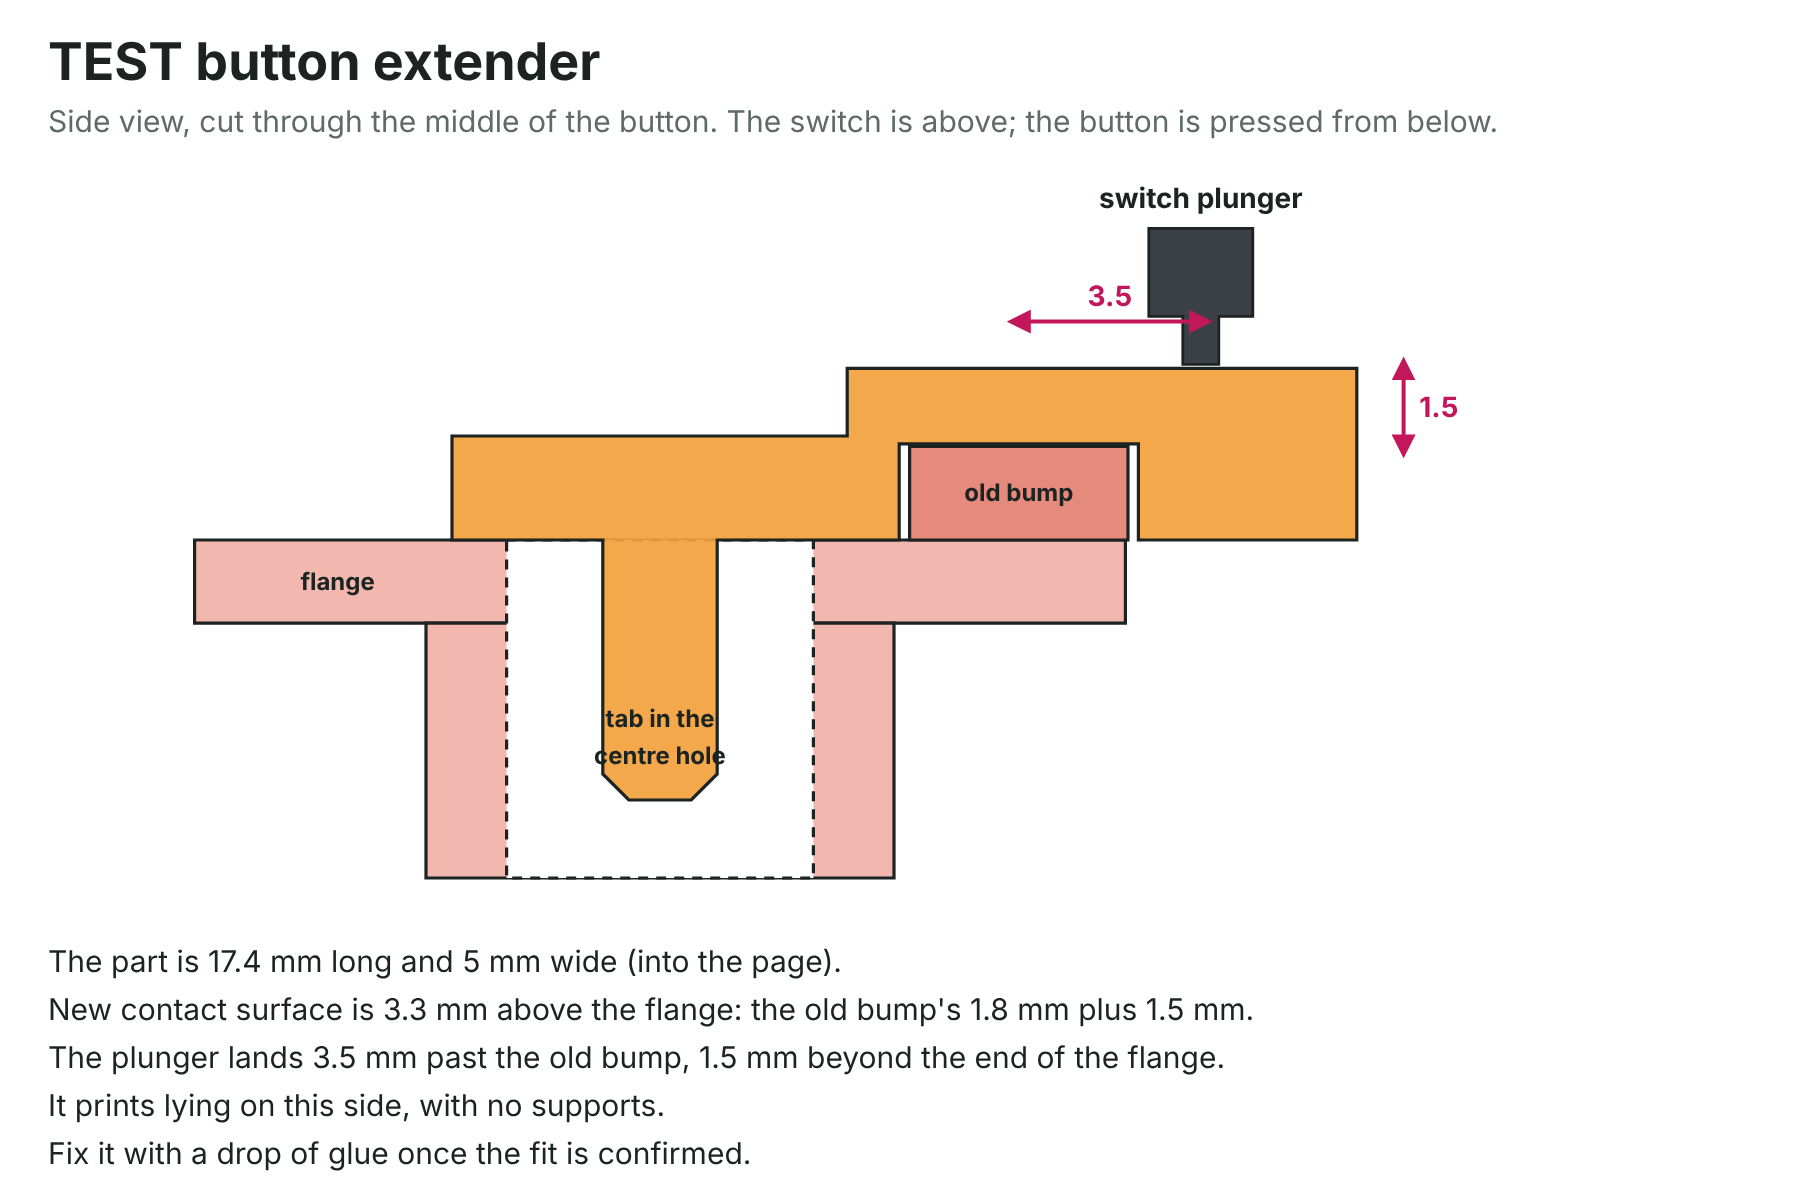
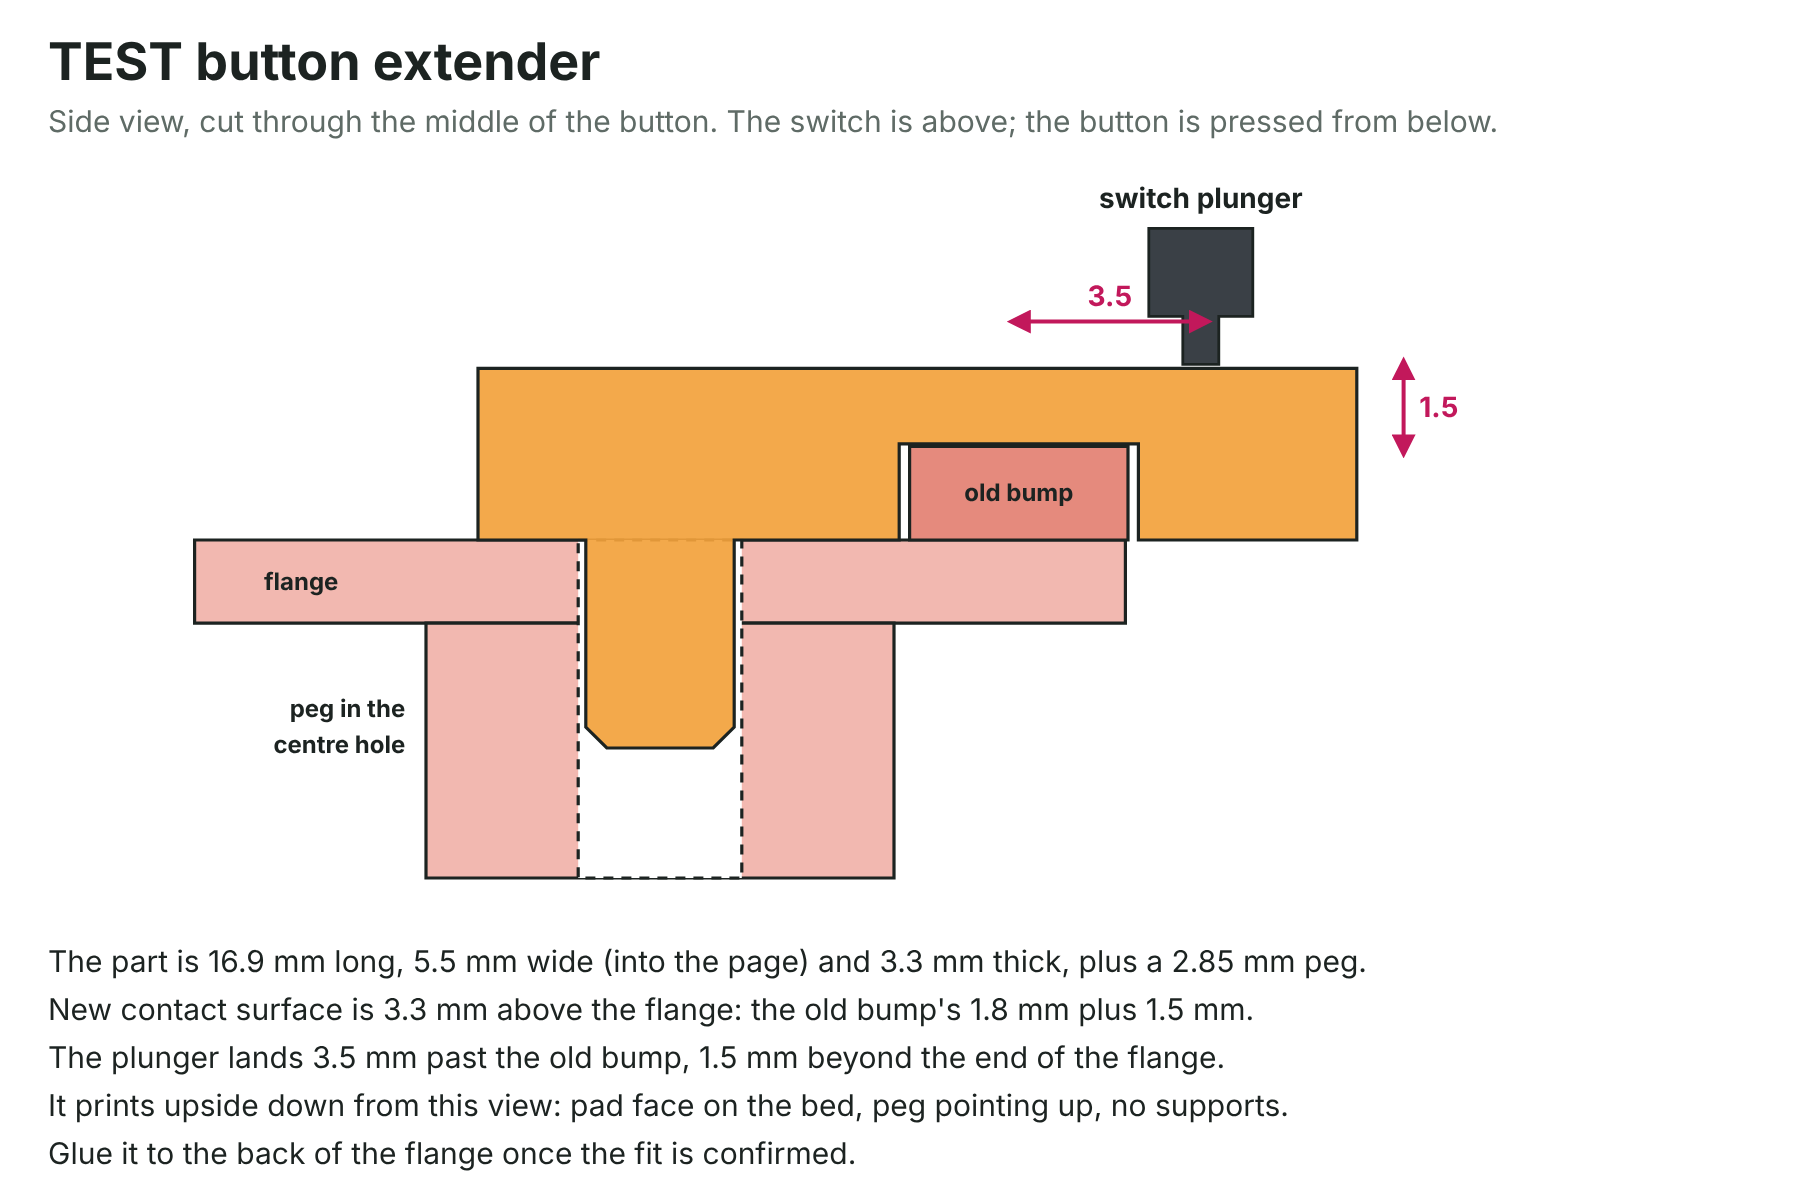
Button extender: round peg for the 3.15 mm centre hole, prints pad-down
The centre hole is 3.15 mm, not 5.9. The part is now a solid built with
manifold3d: a round peg for the hole, a slot over the old bump and a flat
pad, printed pad-face down with no overhangs.

Claude-Session: https://claude.ai/code/session_014zeCf1JZPkteomympPnhgc

diff --git a/cad/button/test_button_extender.py b/cad/button/test_button_extender.py
@@ -1,16 +1,16 @@
-"""TEST-button extender: a clip that moves the button's contact point.
+"""TEST-button extender: a cap that moves the button's contact point.
 
+    pip install manifold3d
     python3 cad/button/test_button_extender.py
         -> cad/button/out/test_button_extender.stl  (and a dimensioned .svg)
 
 The housing's TEST button has a small bump on the back of its flange that
 presses the switch. On the v2 board the switch plunger sits 3.5 mm further out
-along the flange than that bump, and 1.5 mm further away. This part sits on
-the back of the flange, located by a tab in the button's centre hole and a
-slot over the old bump, and gives the plunger a flat pad in the right place.
+along the flange than that bump, and 1.5 mm further away. This part is glued
+onto the back of the flange, located by a peg in the button's centre hole and
+a slot over the old bump, and gives the plunger a flat pad in the right place.
 
-It is one flat profile extruded sideways, so it prints lying on its side with
-no supports. Pure Python: no CAD library needed.
+It prints pad-face down with the peg pointing up: no overhangs, no supports.
 
 All dimensions in mm. x runs along the flange from the centre hole toward the
 bump; z is the push direction, 0 at the flange's back face, positive toward
@@ -19,12 +19,14 @@ the switch.
 from pathlib import Path
 import struct
 
+import manifold3d as m3
+
 HERE = Path(__file__).parent
 
 # --- Measured on the button ------------------------------------------------------
 BUMP_DIA = 4.2            # existing bump on the back of the flange
 BUMP_H = 1.8
-HOLE_DIA = 5.9            # hole in the centre of the button's back
+HOLE_DIA = 3.15           # hole in the centre of the button's back (17.2 deep)
 BUMP_X = 6.9              # centre hole to bump, centre to centre
 FLANGE_W = 5.5
 FLANGE_LEN = 17.9
@@ -34,13 +36,12 @@ OFFSET_OUT = 3.5          # plunger lands this far past the old bump, along the 
 EXTRA_REACH = 1.5         # and needs the surface this much closer than the old bump's top
 
 # --- Part ---------------------------------------------------------------------------
-WIDTH = 5.0               # across the flange (the extrusion); a little under FLANGE_W
+WIDTH = FLANGE_W          # flush with the flange's sides
 CLEAR = 0.2               # around the old bump
-BASE_T = 2.0              # thickness where it rests on the flange
-TAB_W = 2.2               # tab in the centre hole: TAB_W x WIDTH must fit inside HOLE_DIA
-TAB_LEN = 5.0
+PEG_DIA = HOLE_DIA - 0.3  # printed pegs come out slightly fat
+PEG_LEN = 4.0
 PAD_PAST = 3.0            # pad extends this far past the plunger's landing point
-BASE_BACK = 4.0           # how far the base runs back past the hole centre
+BASE_BACK = 3.5           # how far the body runs back past the hole centre
 
 PAD_Z = BUMP_H + EXTRA_REACH                 # new contact surface
 SLOT_X0 = BUMP_X - BUMP_DIA / 2 - CLEAR
@@ -48,86 +49,40 @@ SLOT_X1 = max(BUMP_X + BUMP_DIA / 2, FLANGE_LEN / 2) + CLEAR
 SLOT_Z = BUMP_H + 0.05                       # the bridge rests on top of the old bump
 TARGET_X = BUMP_X + OFFSET_OUT
 END_X = TARGET_X + PAD_PAST
-assert (TAB_W ** 2 + WIDTH ** 2) ** 0.5 < HOLE_DIA - 0.3, "tab will not fit the centre hole"
 assert PAD_Z - SLOT_Z >= 1.2, "bridge over the old bump is too thin"
-
-# Profile in (x, z), counter-clockwise.
-PROFILE = [
-    (-BASE_BACK, 0.0),
-    (-TAB_W / 2, 0.0), (-TAB_W / 2, -TAB_LEN + 0.5), (-TAB_W / 2 + 0.5, -TAB_LEN),
-    (TAB_W / 2 - 0.5, -TAB_LEN), (TAB_W / 2, -TAB_LEN + 0.5), (TAB_W / 2, 0.0),
-    (SLOT_X0, 0.0), (SLOT_X0, SLOT_Z), (SLOT_X1, SLOT_Z), (SLOT_X1, 0.0),
-    (END_X, 0.0), (END_X, PAD_Z),
-    (SLOT_X0 - 1.0, PAD_Z), (SLOT_X0 - 1.0, BASE_T), (-BASE_BACK, BASE_T),
-]
-
-
-def triangulate(poly):
-    """Ear clipping for a simple counter-clockwise polygon."""
-    def cross(o, a, b):
-        return (a[0] - o[0]) * (b[1] - o[1]) - (a[1] - o[1]) * (b[0] - o[0])
-
-    def inside(p, a, b, c):
-        return cross(a, b, p) >= -1e-9 and cross(b, c, p) >= -1e-9 and cross(c, a, p) >= -1e-9
-
-    idx = list(range(len(poly)))
-    tris = []
-    while len(idx) > 3:
-        for k in range(len(idx)):
-            i, j, l = idx[k - 1], idx[k], idx[(k + 1) % len(idx)]
-            a, b, c = poly[i], poly[j], poly[l]
-            if cross(a, b, c) <= 1e-9:
-                continue                                   # reflex or flat corner
-            if any(inside(poly[m], a, b, c) for m in idx if m not in (i, j, l)):
-                continue
-            tris.append((i, j, l))
-            idx.pop(k)
-            break
-        else:
-            raise ValueError("polygon could not be triangulated")
-    tris.append(tuple(idx))
-    return tris
 
 
 def build():
-    """Triangles of the extruded profile. Output axes: X = x, Y = z, Z = across
-    the flange, so the part lies on its side on the print bed."""
-    n = len(PROFILE)
-    lo = [(x, z, 0.0) for x, z in PROFILE]
-    hi = [(x, z, WIDTH) for x, z in PROFILE]
-    out = []
-    for i, j, l in triangulate(PROFILE):
-        out.append((lo[i], lo[l], lo[j]))                  # bottom face looks down
-        out.append((hi[i], hi[j], hi[l]))                  # top face looks up
-    for i in range(n):
-        j = (i + 1) % n
-        out.append((lo[i], lo[j], hi[j]))
-        out.append((lo[i], hi[j], hi[i]))
-    return out
+    """The part in button coordinates (z = 0 at the flange's back face)."""
+    r = WIDTH / 2
+    ends = [m3.CrossSection.circle(r, 48).translate((x, 0.0)) for x in (-BASE_BACK + r, END_X - r)]
+    body = m3.CrossSection.batch_hull(ends).extrude(PAD_Z)
+    slot = m3.Manifold.cube([SLOT_X1 - SLOT_X0, WIDTH + 2.0, SLOT_Z + 1.0]).translate(
+        (SLOT_X0, -WIDTH / 2 - 1.0, -1.0))
+    tip = 0.4
+    peg = (m3.Manifold.cylinder(PEG_LEN - tip + 0.01, PEG_DIA / 2, PEG_DIA / 2, 48).translate((0, 0, -PEG_LEN + tip))
+           + m3.Manifold.cylinder(tip, PEG_DIA / 2 - tip, PEG_DIA / 2, 48).translate((0, 0, -PEG_LEN)))
+    return body - slot + peg
 
 
-def check(tris):
-    """Every edge must be shared by exactly two triangles, in opposite directions."""
-    edges = {}
-    for t in tris:
-        for a, b in ((t[0], t[1]), (t[1], t[2]), (t[2], t[0])):
-            edges[(a, b)] = edges.get((a, b), 0) + 1
-    bad = [e for e in edges if edges[e] != 1 or edges.get((e[1], e[0]), 0) != 1]
-    vol = sum((a[0] * (b[1] * c[2] - b[2] * c[1]) - a[1] * (b[0] * c[2] - b[2] * c[0])
-               + a[2] * (b[0] * c[1] - b[1] * c[0])) / 6 for a, b, c in tris)
-    return len(bad), vol
+def for_printing(part):
+    """Flip it pad-face down: the pad sits on the bed and the peg points up."""
+    return part.mirror((0.0, 0.0, 1.0)).translate((0.0, 0.0, PAD_Z))
 
 
-def write_stl(tris, path):
+def write_stl(part, path):
+    mesh = part.to_mesh()
+    verts, tris = mesh.vert_properties, mesh.tri_verts
     with open(path, "wb") as f:
         f.write(b"Redlight TEST button extender".ljust(80, b" "))
         f.write(struct.pack("<I", len(tris)))
-        for a, b, c in tris:
-            u = [b[k] - a[k] for k in range(3)]
-            v = [c[k] - a[k] for k in range(3)]
-            nrm = [u[1] * v[2] - u[2] * v[1], u[2] * v[0] - u[0] * v[2], u[0] * v[1] - u[1] * v[0]]
-            m = sum(x * x for x in nrm) ** 0.5 or 1.0
-            f.write(struct.pack("<12fH", *[x / m for x in nrm], *a, *b, *c, 0))
+        for t in tris:
+            a, b, c = (verts[i][:3] for i in t)
+            u, v = b - a, c - a
+            n = (u[1] * v[2] - u[2] * v[1], u[2] * v[0] - u[0] * v[2], u[0] * v[1] - u[1] * v[0])
+            k = sum(x * x for x in n) ** 0.5 or 1.0
+            f.write(struct.pack("<12fH", *[x / k for x in n], *a, *b, *c, 0))
+    return len(tris)
 
 
 def write_svg(path):
@@ -151,7 +106,10 @@ def write_svg(path):
         return (f'<line x1="{a:.1f}" y1="{b:.1f}" x2="{c:.1f}" y2="{d:.1f}" stroke="{color}" '
                 f'stroke-width="2" marker-start="url(#h)" marker-end="url(#h)"/>')
 
-    half = FLANGE_LEN / 2
+    half, pr = FLANGE_LEN / 2, PEG_DIA / 2
+    profile = [(-BASE_BACK, 0), (-pr, 0), (-pr, -PEG_LEN + 0.4), (-pr + 0.4, -PEG_LEN), (pr - 0.4, -PEG_LEN),
+               (pr, -PEG_LEN + 0.4), (pr, 0), (SLOT_X0, 0), (SLOT_X0, SLOT_Z), (SLOT_X1, SLOT_Z), (SLOT_X1, 0),
+               (END_X, 0), (END_X, PAD_Z), (-BASE_BACK, PAD_Z)]
     o = ['<svg xmlns="http://www.w3.org/2000/svg" viewBox="0 0 900 600" width="900" height="600" '
          'font-family="Inter, \'DejaVu Sans\', Arial, sans-serif">',
          '<defs><marker id="h" viewBox="0 0 10 10" refX="5" refY="5" markerWidth="6" markerHeight="6" '
@@ -160,15 +118,14 @@ def write_svg(path):
          '<text x="24" y="40" font-size="26" font-weight="700" fill="#1c2321">TEST button extender</text>',
          '<text x="24" y="66" font-size="15" fill="#5f6b66">Side view, cut through the middle of the button. '
          'The switch is above; the button is pressed from below.</text>']
-    # Button: flange, old bump, hollow shaft (schematic below the flange).
+    # Button: flange, old bump, shaft with its centre hole (schematic below the flange).
     o.append(poly([(-half, 0), (half, 0), (half, -1.6), (-half, -1.6)], "#f2b8b0"))
     o.append(poly([(-4.5, -1.6), (4.5, -1.6), (4.5, -6.5), (-4.5, -6.5)], "#f2b8b0"))
     o.append(poly([(-HOLE_DIA / 2, 0), (HOLE_DIA / 2, 0), (HOLE_DIA / 2, -6.5), (-HOLE_DIA / 2, -6.5)],
                   "#ffffff", "#1c2321", 'stroke-dasharray="5 4"'))
     o.append(poly([(BUMP_X - BUMP_DIA / 2, 0), (BUMP_X + BUMP_DIA / 2, 0),
                    (BUMP_X + BUMP_DIA / 2, BUMP_H), (BUMP_X - BUMP_DIA / 2, BUMP_H)], "#e58a7d"))
-    o.append(poly(PROFILE, "#f2a23c", "#1c2321", 'fill-opacity="0.92"'))
-    # Plunger landing point and dimensions.
+    o.append(poly(profile, "#f2a23c", "#1c2321", 'fill-opacity="0.92"'))
     px, py = P(TARGET_X, PAD_Z)
     o.append(f'<path d="M{px - 26:.1f},{py - 70:.1f} h52 v44 h-17 v24 h-18 v-24 h-17 z" fill="#3a4046" '
              f'stroke="#1c2321" stroke-width="1.4"/>')
@@ -178,14 +135,15 @@ def write_svg(path):
     o.append(arrow(END_X + 0.9, BUMP_H, END_X + 0.9, PAD_Z))
     o.append(text(END_X + 1.2, (BUMP_H + PAD_Z) / 2, f"{EXTRA_REACH:g}", 14, "#c2185b", 700, "start", 5))
     o.append(text(BUMP_X, BUMP_H / 2, "old bump", 12, "#1c2321", 700, dy=4))
-    o.append(text(0, -3.6, "tab in the", 12, "#1c2321", 700))
-    o.append(text(0, -4.3, "centre hole", 12, "#1c2321", 700))
-    o.append(text(-6.2, -0.8, "flange", 12, "#1c2321", 700, dy=4))
-    notes = [f"The part is {END_X + BASE_BACK:g} mm long and {WIDTH:g} mm wide (into the page).",
+    o.append(text(-4.9, -3.4, "peg in the", 12, "#1c2321", 700, "end"))
+    o.append(text(-4.9, -4.1, "centre hole", 12, "#1c2321", 700, "end"))
+    o.append(text(-6.9, -0.8, "flange", 12, "#1c2321", 700, dy=4))
+    notes = [f"The part is {END_X + BASE_BACK:g} mm long, {WIDTH:g} mm wide (into the page) and {PAD_Z:g} mm thick, "
+             f"plus a {PEG_DIA:g} mm peg.",
              f"New contact surface is {PAD_Z:g} mm above the flange: the old bump's {BUMP_H:g} mm plus {EXTRA_REACH:g} mm.",
              f"The plunger lands {OFFSET_OUT:g} mm past the old bump, {TARGET_X - FLANGE_LEN / 2:.1f} mm beyond the end of the flange.",
-             "It prints lying on this side, with no supports.",
-             "Fix it with a drop of glue once the fit is confirmed."]
+             "It prints upside down from this view: pad face on the bed, peg pointing up, no supports.",
+             "Glue it to the back of the flange once the fit is confirmed."]
     for i, n in enumerate(notes):
         o.append(f'<text x="24" y="{486 + i * 24}" font-size="15" fill="#1c2321">{n}</text>')
     o.append("</svg>")
@@ -195,12 +153,10 @@ def write_svg(path):
 if __name__ == "__main__":
     out = HERE / "out"
     out.mkdir(exist_ok=True)
-    tris = build()
-    bad, vol = check(tris)
-    write_stl(tris, out / "test_button_extender.stl")
+    part = for_printing(build())
+    n = write_stl(part, out / "test_button_extender.stl")
     write_svg(out / "test_button_extender.svg")
-    xs = [p[0] for p in PROFILE]
-    zs = [p[1] for p in PROFILE]
-    print(f"{len(tris)} triangles, {bad} bad edges, volume {vol:.0f} mm3, "
-          f"{max(xs) - min(xs):.1f} x {max(zs) - min(zs):.1f} x {WIDTH:.1f} mm; "
-          f"pad at z = {PAD_Z:g}, plunger target x = {TARGET_X:g}")
+    lo_x, lo_y, lo_z, hi_x, hi_y, hi_z = part.bounding_box()
+    print(f"{n} triangles, status {part.status()}, volume {part.volume():.0f} mm3, "
+          f"{hi_x - lo_x:.1f} x {hi_y - lo_y:.1f} x {hi_z - lo_z:.1f} mm as printed; "
+          f"pad {PAD_Z:g} thick, peg {PEG_DIA:g} dia, plunger target x = {TARGET_X:g}")

diff --git a/docs/PLAN.md b/docs/PLAN.md
@@ -100,9 +100,10 @@ Running notes on where the hardware build stands and what's decided.
 VOL+ and VOL− line up with the housing's buttons and work. The TEST switch
 (SW1) plunger sits 3.5 mm further out along the button's flange than the
 button's bump, and 1.5 mm further away. `cad/button/test_button_extender.py`
-makes a small clip for the back of the button (tab in its centre hole, slot
-over the old bump) that puts a flat pad in the right place; it prints on its
-side with no supports. Not yet printed or tried. Once it is confirmed, move SW1
+makes a small cap that is glued to the back of the button (peg in its 3.15 mm
+centre hole, slot over the old bump) and puts a flat pad in the right place; it
+prints pad-face down with no supports. Not yet printed or tried. A complete
+replacement button is possible too, but needs the shaft and flange measured. Once it is confirmed, move SW1
 in `cad/pcb/make_pcb.py` (`BUTTONS["TEST"]`) so a v3 board needs no extender.
 
 ## PCB v3
